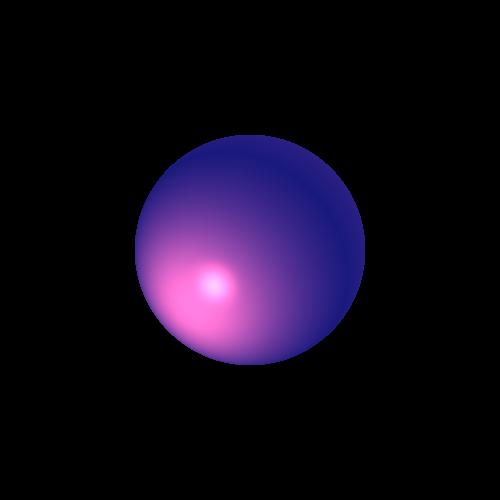
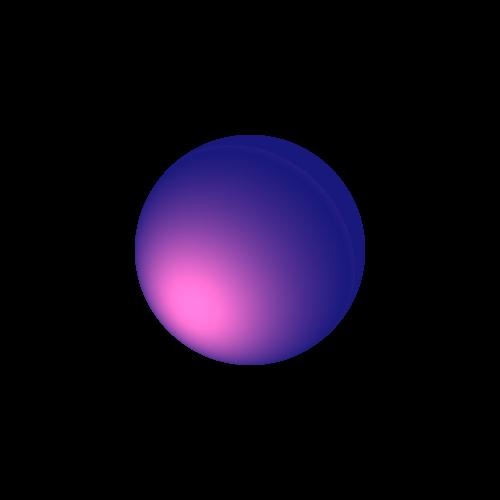
add

Changed region(s): [[0.39, 0.51, 0.48, 0.63]]

diff --git a/src/renderer/Render.java b/src/renderer/Render.java
@@ -491,12 +491,12 @@ public class Render implements Comparable<Render> {
         Vector R = new Vector(lightToPoint);//R=D-...
         R.subtract(temp);
         double factor = cameraToPoint.dotProduct(R);
-        if (factor >= 0)
-            return new Color(0,0,0);
+        //if (factor >= 0)
+         //   return new Color(0,0,0);
 
-        factor = Math.abs(factor);
+
         factor = Math.pow(factor, nShininess);
-
+        factor = Math.abs(factor);
         int r =Math.min(255, (int) (factor * intensity.getRed() * ks));
         int g =Math.min(255, (int) (factor * intensity.getGreen() * ks));
         int b =Math.min(255, (int) (factor * intensity.getBlue() * ks));
@@ -551,7 +551,7 @@ public class Render implements Comparable<Render> {
     private double occluded(LightSource light, Point3D point, Geometry geometry) throws Exception {
         Point3D geometryPoint = new Point3D(point);
         Vector epsVector = new Vector(geometry.getNormal(point));
-        epsVector.scale(2);
+        epsVector.scale(0.2);
         geometryPoint.add(epsVector);
 
         if (light instanceof PointLight && ((PointLight) light).getArea() != 0) {
@@ -661,7 +661,7 @@ public class Render implements Comparable<Render> {
 
         Vector epsVec = new Vector(normal);
         if(normal.dotProduct(R) < 0){
-            epsVec.scale(-2);
+            epsVec.scale(-0.2);
         }
         else {
             epsVec.scale(2);
@@ -694,7 +694,7 @@ public class Render implements Comparable<Render> {
 
         Point3D geometryPoint = new Point3D(point);
         Vector epsVector = new Vector(inRay.get_direction());
-        //epsVector.scale(0.00001);
+        epsVector.scale(0.00001);
         geometryPoint.add(epsVector);
         Vector newVector = new Vector(inRay.get_direction());
         newVector.normalize();

diff --git a/Test/renderer/RenderTest3.java b/Test/renderer/RenderTest3.java
@@ -187,8 +187,8 @@ public class RenderTest3 {
         scene.addGeometry(triangle);
         scene.addGeometry(triangle2);
 
-        scene.addLight(new SpotLight(new Color(255, 100, 100), new Point3D(200, 200, -100),
-                new Vector(-2, -2, -3), 0, 0.000001, 0.0000005));
+        scene.addLight(new PointLight(new Color(255, 100, 100), new Point3D(200, 200, -100),
+                 0, 0.000001, 0.0000005));
 
 
         ImageWriter imageWriter = new ImageWriter("shadow test", 500, 500, 500, 500);

diff --git a/src/run.java b/src/run.java
@@ -9,7 +9,7 @@ import geometries.Sphere;
 import geometries.Triangle;
 import javafx.application.Application;
 import javafx.stage.Stage;
-import org.junit.Test;
+
 import primitives.*;
 import primitives.Vector;
 import renderer.ImageWriter;
